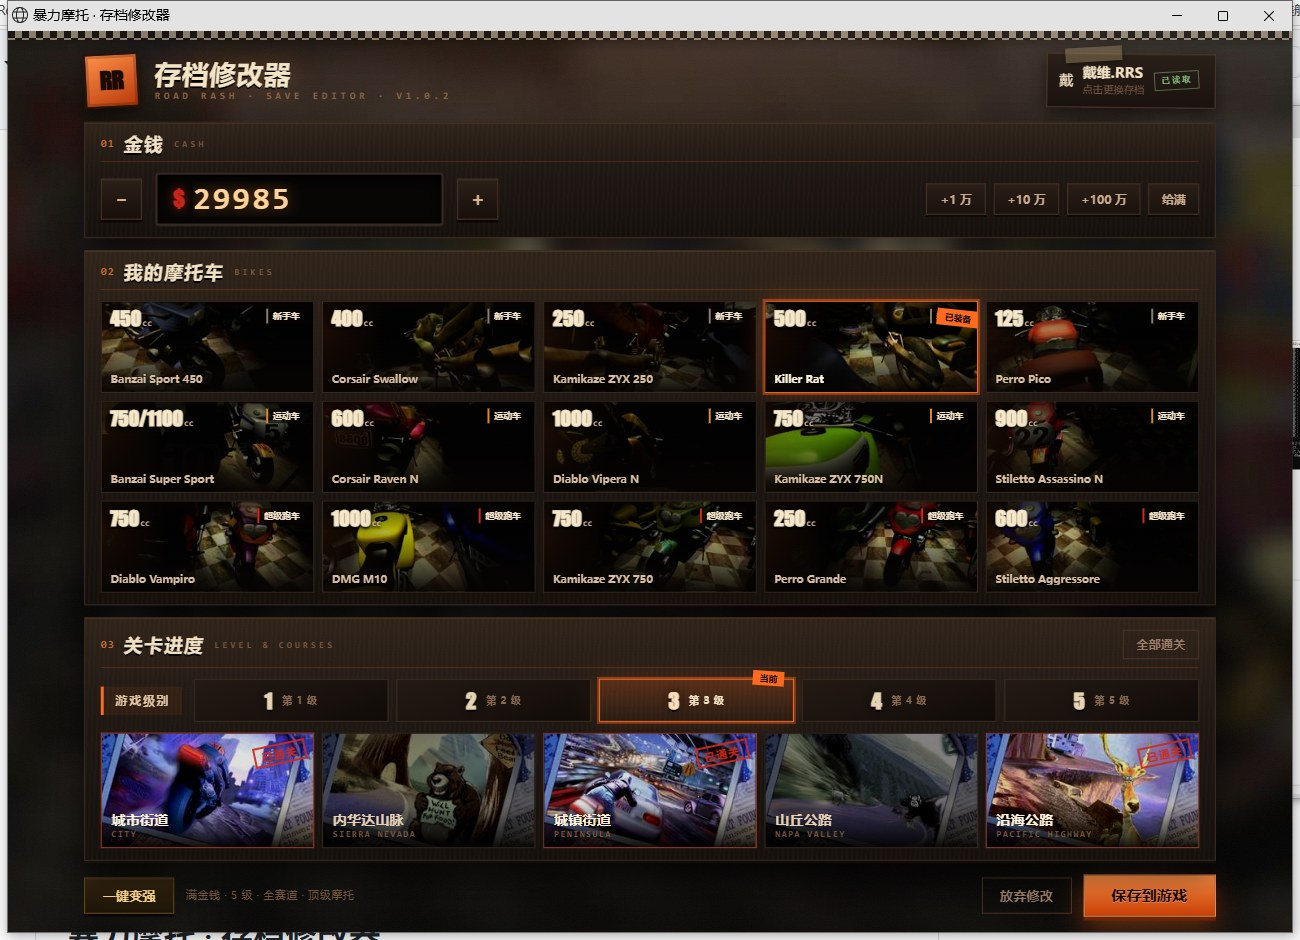
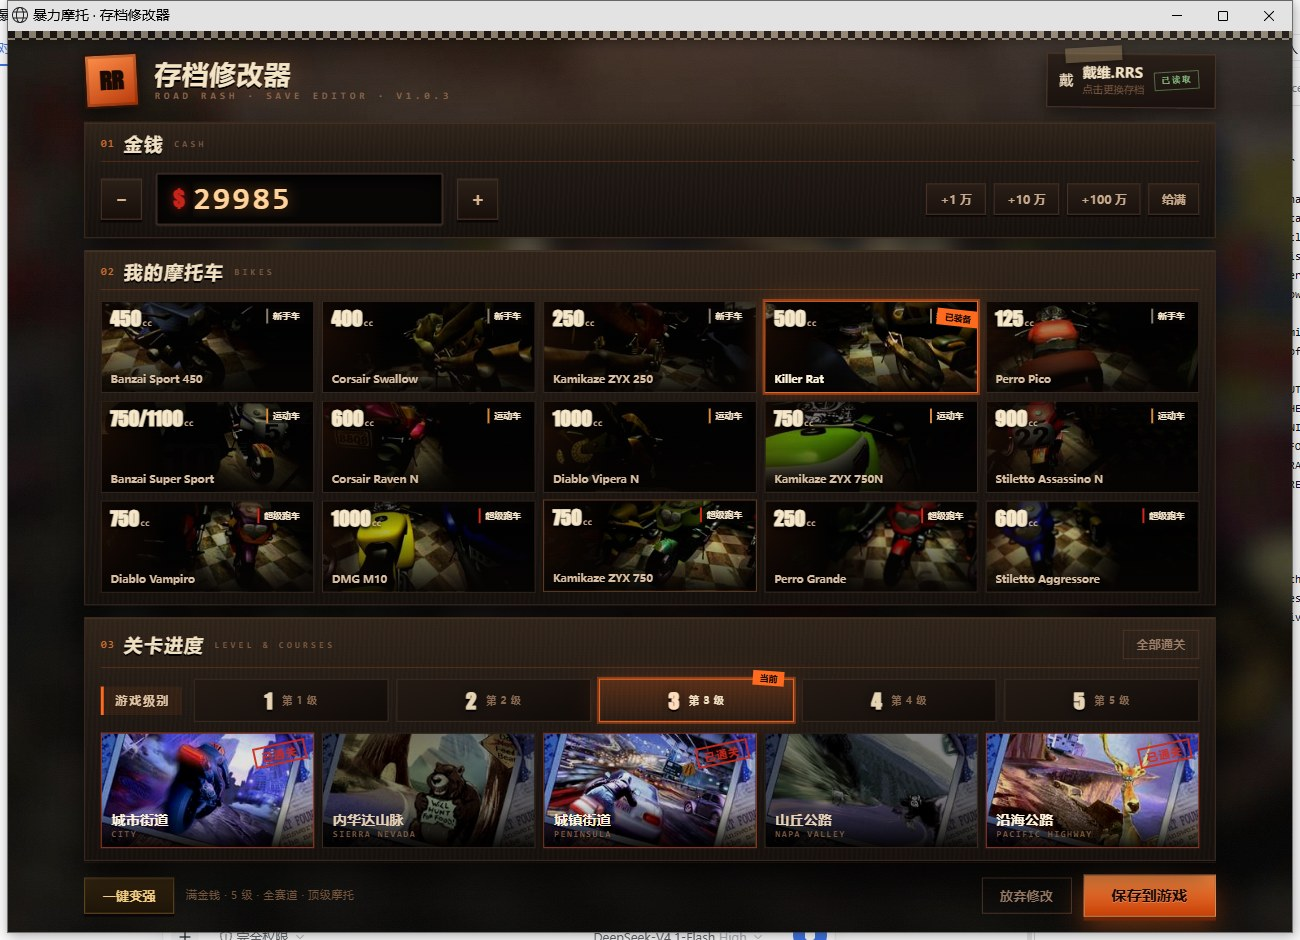
feat: 存档列表显示摘要（车手/级别/金钱/来源）
之前下拉里只有文件名和时间，分不清哪个是哪个。
- 每条显示两行：文件名 + 类型标签 + 修改时间；「车手 · N 级 · $金钱」
- 区分「存档」（Save 目录）与「游戏目录」（根目录示例档）
- 修复菜单小标签被页头 .tag 样式污染出现多余底框
- 全局禁用文本选中，避免拖动时误选
- 版本号 1.0.3，usage 文档补上列表说明与新截图

diff --git a/src/ui/template.html b/src/ui/template.html
@@ -16,7 +16,9 @@ body{
   color:var(--cream);
   font:14px/1.45 "Microsoft YaHei","Segoe UI",sans-serif;
   overflow:hidden;display:flex;align-items:center;justify-content:center;
+  user-select:none;-webkit-user-select:none;
 }
+input,textarea{user-select:text;-webkit-user-select:text}
 /* 背景：游戏素材生成的脏旧墙面 */
 body::before{
   content:"";position:fixed;inset:0;
@@ -62,40 +64,47 @@ header{display:flex;align-items:center;gap:16px;margin-bottom:14px}
 .brand p{margin-top:5px;font:700 10px/1 Consolas,monospace;letter-spacing:4px;color:#8a644a}
 .spacer{flex:1}
 
-.tag{
+.filetag{
   position:relative;display:flex;align-items:center;gap:10px;
   padding:9px 16px 9px 12px;cursor:pointer;transform:rotate(.6deg);
   background:linear-gradient(180deg,#2a1f19,#1a120e);
   border:1px solid #4a3325;box-shadow:0 6px 16px rgba(0,0,0,.5),inset 0 1px 0 rgba(255,255,255,.05);
   transition:.15s;
 }
-.tag::before{
+.filetag::before{
   content:"";position:absolute;top:-7px;left:18px;width:58px;height:15px;
   background:rgba(226,196,140,.28);transform:rotate(-4deg);
   box-shadow:0 2px 6px rgba(0,0,0,.35);
 }
-.tag:hover{border-color:var(--orange)}
+.filetag:hover{border-color:var(--orange)}
 .saves{
   position:fixed;top:88px;right:26px;z-index:30;min-width:270px;display:none;
   background:linear-gradient(180deg,#241b15,#17100c);border:1px solid #4a3325;
   box-shadow:0 20px 46px rgba(0,0,0,.72);padding:5px;
 }
 .saves.show{display:block}
-.saves .it{display:flex;align-items:center;justify-content:space-between;gap:14px;
+.saves .it{display:flex;flex-direction:column;align-items:stretch;gap:3px;
   padding:9px 11px;cursor:pointer;border-left:3px solid transparent}
 .saves .it:hover{background:rgba(255,106,31,.12);border-left-color:var(--orange)}
+.saves .l1{display:flex;align-items:center;gap:8px}
 .saves .it b{font-size:13.5px;font-weight:700}
-.saves .it small{color:#8a644a;font-size:10.5px;font-family:Consolas,monospace}
+.saves .it small{color:#8a644a;font-size:10.5px;font-family:Consolas,monospace;margin-left:auto}
+.saves .it .tag{
+  font-size:9.5px;font-weight:700;padding:2px 5px;letter-spacing:.5px;
+  border:1px solid #5a3d2a;color:#c9a98c;
+}
+.saves .it .tag.root{border-color:#7a4a1f;color:#e0a86a}
+.saves .it .sum{font-size:11px;color:#9a7c66;font-family:Consolas,"Microsoft YaHei",monospace}
 .saves .it.more{border-top:1px solid #33251c;margin-top:4px;padding-top:10px}
 .saves .it.more b{color:#d9b48c}'
-.tag .ava{
+.filetag .ava{
   width:32px;height:32px;border-radius:50%;display:grid;place-items:center;
   background:linear-gradient(150deg,#ff8f4a,#a5300a);color:#1e0a03;
   font:900 14px/1 "Microsoft YaHei";border:1px solid #1a0a04;
 }
-.tag b{display:block;font-size:14px;letter-spacing:.3px}
-.tag small{display:block;font-size:10.5px;color:var(--dim)}
-.tag .ok{
+.filetag b{display:block;font-size:14px;letter-spacing:.3px}
+.filetag small{display:block;font-size:10.5px;color:var(--dim)}
+.filetag .ok{
   font:700 9px/1 Consolas,monospace;letter-spacing:1.5px;color:#8fd18b;
   border:1px solid rgba(143,209,139,.45);padding:4px 6px;transform:rotate(-4deg);
 }
@@ -286,10 +295,10 @@ footer{display:flex;align-items:center;gap:12px;padding:12px 0 16px;margin-top:1
     <div class="plate"><span>RR</span></div>
     <div class="brand">
       <h1>存档修改器</h1>
-      <p>ROAD RASH · SAVE EDITOR · V1.0.2</p>
+      <p>ROAD RASH · SAVE EDITOR · V1.0.3</p>
     </div>
     <div class="spacer"></div>
-    <div class="tag" id="btnOpen" title="换一个存档">
+    <div class="filetag" id="btnOpen" title="换一个存档">
       <div class="ava" id="ava">戴</div>
       <div><b id="fname">戴维.RRS</b><small>点击更换存档</small></div>
       <div class="ok">已读取</div>
@@ -487,9 +496,16 @@ function ensureSomething(){ if(STARTED) return; STARTED=true; startDemo(); }
 function renderSavesMenu(){
   const box=$("#saves");
   if(!SAVES.length){ box.classList.remove("show"); return; }
-  box.innerHTML=SAVES.map((s,i)=>
-    `<div class="it" data-i="${i}"><b>${s.name}</b><small>${s.mtime}</small></div>`).join("")
-    + `<div class="it more" data-more="1"><b>打开其他文件…</b><small></small></div>`;
+  box.innerHTML=SAVES.map((s,i)=>{
+    const sum=[s.rider, s.level?`${s.level} 级`:null, s.cash?("$"+Number(s.cash).toLocaleString("en-US")):null]
+      .filter(Boolean).join(" · ");
+    const tag=s.tag?`<span class="tag${s.tag==="游戏目录"?" root":""}">${s.tag}</span>`:"";
+    return `<div class="it" data-i="${i}">
+      <div class="l1"><b>${s.name}</b>${tag}<small>${s.mtime}</small></div>
+      <div class="sum">${sum}</div>
+    </div>`;
+  }).join("")
+    + `<div class="it more" data-more="1"><div class="l1"><b>打开其他文件…</b></div></div>`;
   box.classList.add("show");
 }
 $("#saves").addEventListener("click",e=>{

diff --git a/src/Launcher.cs b/src/Launcher.cs
@@ -15,8 +15,8 @@ using System.Runtime.InteropServices;
 [assembly: AssemblyTitle("Road Rash Save Editor")]
 [assembly: AssemblyDescription("暴力摩托（Road Rash 1996）存档修改器")]
 [assembly: AssemblyProduct("RoadRashSaveEditor")]
-[assembly: AssemblyVersion("1.0.2.0")]
-[assembly: AssemblyFileVersion("1.0.2.0")]
+[assembly: AssemblyVersion("1.0.3.0")]
+[assembly: AssemblyFileVersion("1.0.3.0")]
 
 namespace RRS
 {
@@ -318,7 +318,31 @@ namespace RRS
             return list;
         }
 
-        class SaveInfo { public string name, path, mtime; public DateTime t; }
+        class SaveInfo
+        {
+            public string name, path, mtime, rider, tag;
+            public int level, cash;
+            public bool ok;
+            public DateTime t;
+        }
+
+        static readonly string[] RIDER_NAMES = { "戴维", "杰斐逊", "露西娅", "荘臣", "姆克迪", "塞利娜", "汤姆", "迈克" };
+
+        /// <summary>从 160 字节存档里读出车手/级别/金钱，用于列表摘要。</summary>
+        static void ReadSummary(SaveInfo s)
+        {
+            try
+            {
+                var b = File.ReadAllBytes(s.path);
+                if (b.Length != 160) return;
+                int rider = b[9];
+                s.rider = (rider >= 1 && rider <= 8) ? RIDER_NAMES[rider - 1] : "未知";
+                s.level = b[10] + 1;
+                s.cash = BitConverter.ToInt32(b, 0x10);
+                s.ok = true;
+            }
+            catch { }
+        }
 
         static List<SaveInfo> FindSaves()
         {
@@ -335,11 +359,14 @@ namespace RRS
                         if (!seen.Add(full)) continue;
                         var fi = new FileInfo(full);
                         if (fi.Length != 160) continue;
-                        res.Add(new SaveInfo
+                        var info = new SaveInfo
                         {
                             name = fi.Name, path = full,
-                            mtime = fi.LastWriteTime.ToString("MM-dd HH:mm"), t = fi.LastWriteTime
-                        });
+                            mtime = fi.LastWriteTime.ToString("MM-dd HH:mm"), t = fi.LastWriteTime,
+                            tag = full.IndexOf("\\Save\\", StringComparison.OrdinalIgnoreCase) >= 0 ? "存档" : "游戏目录"
+                        };
+                        ReadSummary(info);
+                        res.Add(info);
                     }
                 }
                 catch { }
@@ -356,9 +383,15 @@ namespace RRS
             for (int i = 0; i < saves.Count; i++)
             {
                 if (i > 0) sb.Append(',');
-                sb.Append("{\"name\":").Append(J(saves[i].name))
-                  .Append(",\"path\":").Append(J(saves[i].path))
-                  .Append(",\"mtime\":").Append(J(saves[i].mtime)).Append('}');
+                var s = saves[i];
+                sb.Append("{\"name\":").Append(J(s.name))
+                  .Append(",\"path\":").Append(J(s.path))
+                  .Append(",\"mtime\":").Append(J(s.mtime))
+                  .Append(",\"tag\":").Append(J(s.tag))
+                  .Append(",\"rider\":").Append(J(s.rider ?? ""))
+                  .Append(",\"level\":").Append(s.ok ? s.level : 0)
+                  .Append(",\"cash\":").Append(s.ok ? s.cash : 0)
+                  .Append('}');
             }
             sb.Append("]}");
             if (saves.Count > 0) SaveLastDir(Path.GetDirectoryName(saves[0].path));

diff --git a/docs/usage.md b/docs/usage.md
@@ -22,7 +22,12 @@
 
 1. **双击** `暴力摩托存档修改器.exe`，等 2~5 秒会弹出一个黑色窗口（用系统自带的 Edge 内核渲染，不需要另外装东西）。
 2. 右上角显示的就是**当前存档**。点它可以在你的存档之间切换：
-   - 列表里按「最近玩过」排序，第一条会默认打开；
+
+   ![存档列表](images/menu.jpg)
+
+   - 列表按「最近玩过」排序，第一条会默认打开；
+   - 每条显示：文件名 + 类型标签 + 最后修改时间，下面一行是「车手 · N 级 · $金钱」；
+   - 标签 **存档** = 游戏 `Save\` 目录里的正常存档；**游戏目录** = 放在游戏根目录的示例档（一般是安装包自带的）；
    - 想选别的文件，点列表最下面的「打开其他文件…」。
 3. 改完点右下角 **「保存到游戏」**。看到「✓ 已保存到 戴维.RRS，原文件已备份」就成功了。
 

diff --git a/CHANGELOG.md b/CHANGELOG.md
@@ -1,4 +1,12 @@
-''# 更新日志
+'''# 更新日志
+
+## v1.0.3
+
+- 存档下拉列表现在显示**摘要**：文件名 + 类型标签 + 最后修改时间，
+  第二行是「车手 · N 级 · $金钱」，一眼看出哪个是哪个
+- 自动区分「存档」（`Save\` 目录）与「游戏目录」（游戏根目录里的示例档）
+- 修复菜单里的小标签被页头 `.tag` 样式污染、出现多余底框的问题
+- 全界面禁用文本选中（拖动时不再误选文字）'
 
 ## v1.0.2
 
